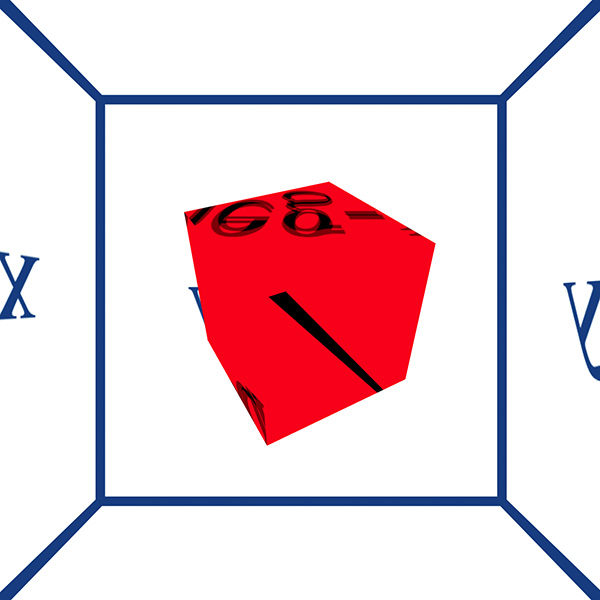
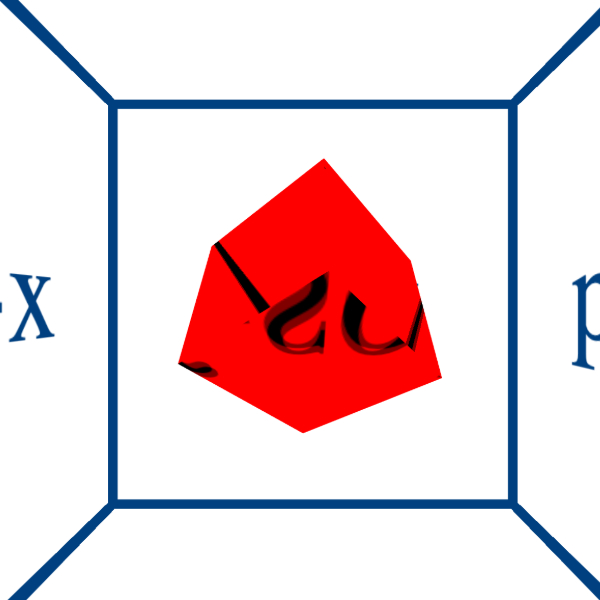
Website fixes (#1065)

diff --git a/examples/core/gltf/app.js b/examples/core/gltf/app.js
@@ -17,24 +17,16 @@ const CUBE_FACE_TO_DIRECTION = {
   [GL.TEXTURE_CUBE_MAP_NEGATIVE_Z]: 'back'
 };
 
-export const GLTF_BASE_URL =
-  'https://raw.githubusercontent.com/KhronosGroup/glTF-Sample-Models/master/2.0/';
-const GLTF_ENV_BASE_URL =
-  'https://raw.githubusercontent.com/KhronosGroup/glTF-WebGL-PBR/master/textures';
-const GLTF_MODEL_INDEX = `${GLTF_BASE_URL}model-index.json`;
+// Damaged helmet model used under creative commons: https://github.com/KhronosGroup/glTF-Sample-Models/tree/1ba47770292486e66ca1e1161857a6e5695c2631/2.0/DamagedHelmet
+// Papermill textures used under Apache 2.0: https://github.com/KhronosGroup/glTF-Sample-Viewer/blob/e2d487693fa2e6148bd29d05bc82586f5a002a45/LICENSE.md
 
-const GLTF_DEFAULT_MODEL = 'DamagedHelmet/glTF-Binary/DamagedHelmet.glb';
+const GLTF_BASE_URL =
+  'https://raw.githubusercontent.com/uber-common/deck.gl-data/master/luma.gl/examples/gltf/';
+const GLTF_DEFAULT_MODEL = 'DamagedHelmet.glb';
 
 const INFO_HTML = `
 <p><b>glTF Loader</b>.</p>
 <p>Rendered using luma.gl.</p>
-<div>
-  Model
-  <select id="modelSelector">
-    <option value="${GLTF_DEFAULT_MODEL}">Default</option>
-  </select>
-  <br>
-</div>
 <div>
   Show
   <select id="showSelector">
@@ -171,27 +163,6 @@ async function loadGLTF(urlOrPromise, gl, options) {
   return {scenes, animator, gltf};
 }
 
-function loadModelList() {
-  return window.fetch(GLTF_MODEL_INDEX).then(res => res.json());
-}
-
-function addModelsToDropdown(models, modelDropdown) {
-  if (!modelDropdown) {
-    return;
-  }
-
-  const VARIANTS = ['glTF-Draco', 'glTF-Binary', 'glTF-Embedded', 'glTF'];
-
-  models.forEach(({name, variants}) => {
-    const variant = VARIANTS.find(v => variants[v]);
-
-    const option = document.createElement('option');
-    option.text = `${name} (${variant})`;
-    option.value = `${name}/${variant}/${variants[variant]}`;
-    modelDropdown.appendChild(option);
-  });
-}
-
 export class DemoApp {
   constructor({modelFile = null, initialZoom = 2} = {}) {
     this.scenes = [];
@@ -282,11 +253,9 @@ export class DemoApp {
 
     this.loadOptions = Object.assign({}, DEFAULT_OPTIONS);
     this.environment = new GLTFEnvironment(gl, {
-      brdfLutUrl: `${GLTF_ENV_BASE_URL}/brdfLUT.png`,
+      brdfLutUrl: `${GLTF_BASE_URL}/brdfLUT.png`,
       getTexUrl: (type, dir, mipLevel) =>
-        `${GLTF_ENV_BASE_URL}/papermill/${type}/${type}_${
-          CUBE_FACE_TO_DIRECTION[dir]
-        }_${mipLevel}.jpg`
+        `${GLTF_BASE_URL}/papermill/${type}/${type}_${CUBE_FACE_TO_DIRECTION[dir]}_${mipLevel}.jpg`
     });
     this.loadOptions.imageBasedLightingEnvironment = this.environment;
 
@@ -300,23 +269,10 @@ export class DemoApp {
       };
       loadGLTF(this.modelFile, this.gl, options).then(result => Object.assign(this, result));
     } else {
-      const modelSelector = document.getElementById('modelSelector');
-      const modelUrl = (modelSelector && modelSelector.value) || GLTF_DEFAULT_MODEL;
+      const modelUrl = GLTF_DEFAULT_MODEL;
       loadGLTF(GLTF_BASE_URL + modelUrl, this.gl, this.loadOptions).then(result =>
         Object.assign(this, result)
       );
-
-      if (modelSelector) {
-        modelSelector.onchange = event => {
-          this._deleteScenes();
-          const modelUrl2 = (modelSelector && modelSelector.value) || GLTF_DEFAULT_MODEL;
-          loadGLTF(GLTF_BASE_URL + modelUrl2, this.gl, this.loadOptions).then(result =>
-            Object.assign(this, result)
-          );
-        };
-      }
-
-      loadModelList().then(models => addModelsToDropdown(models, modelSelector));
     }
 
     const showSelector = document.getElementById('showSelector');

diff --git a/examples/core/cubemap/app.js b/examples/core/cubemap/app.js
@@ -60,7 +60,7 @@ varying vec3 vPosition;
 
 void main(void) {
   // The outer cube just samples the texture cube directly
-  gl_FragColor = textureCube(uTextureCube, normalize(vPosition));
+  gl_FragColor = textureCube(uTextureCube, normalize(vPosition) * vec3(-1.0, 1.0, 1.0));
 }
 `;
 
@@ -193,8 +193,8 @@ function getFaceTextures({size}) {
       : document.createElement('canvas');
   const ctx = canvas.getContext('2d');
 
-  for (const sign of signs) {
-    for (const axis of axes) {
+  for (const axis of axes) {
+    for (const sign of signs) {
       // reset canvas
       canvas.width = size;
       canvas.height = size;
@@ -207,10 +207,6 @@ function getFaceTextures({size}) {
 
 // Use canvas API to generate a texture for each side
 function drawTexture({ctx, sign, axis, size}) {
-  if (axis === 'x' || axis === 'z') {
-    ctx.translate(size, size);
-    ctx.rotate(Math.PI);
-  }
   const color = 'rgb(0,64,128)';
   ctx.fillStyle = color;
   ctx.fillRect(0, 0, size, size);

diff --git a/website/contents/pages.js b/website/contents/pages.js
@@ -77,7 +77,8 @@ export const EXAMPLE_PAGES = [
         name: 'GLTF',
         content: {
           demo: 'GLTFDemo',
-          code: `${GITHUB_TREE}/examples/core/gltf`
+          code: `${GITHUB_TREE}/examples/core/gltf`,
+          path: `${RAW_GITHUB}/examples/core/gltf/`
         }
       },
       {
@@ -236,7 +237,7 @@ export const DOC_PAGES = [
         content: 'README.md'
       },
       {
-        name: 'What\'s New',
+        name: "What's New",
         content: 'whats-new.md'
       },
       {
